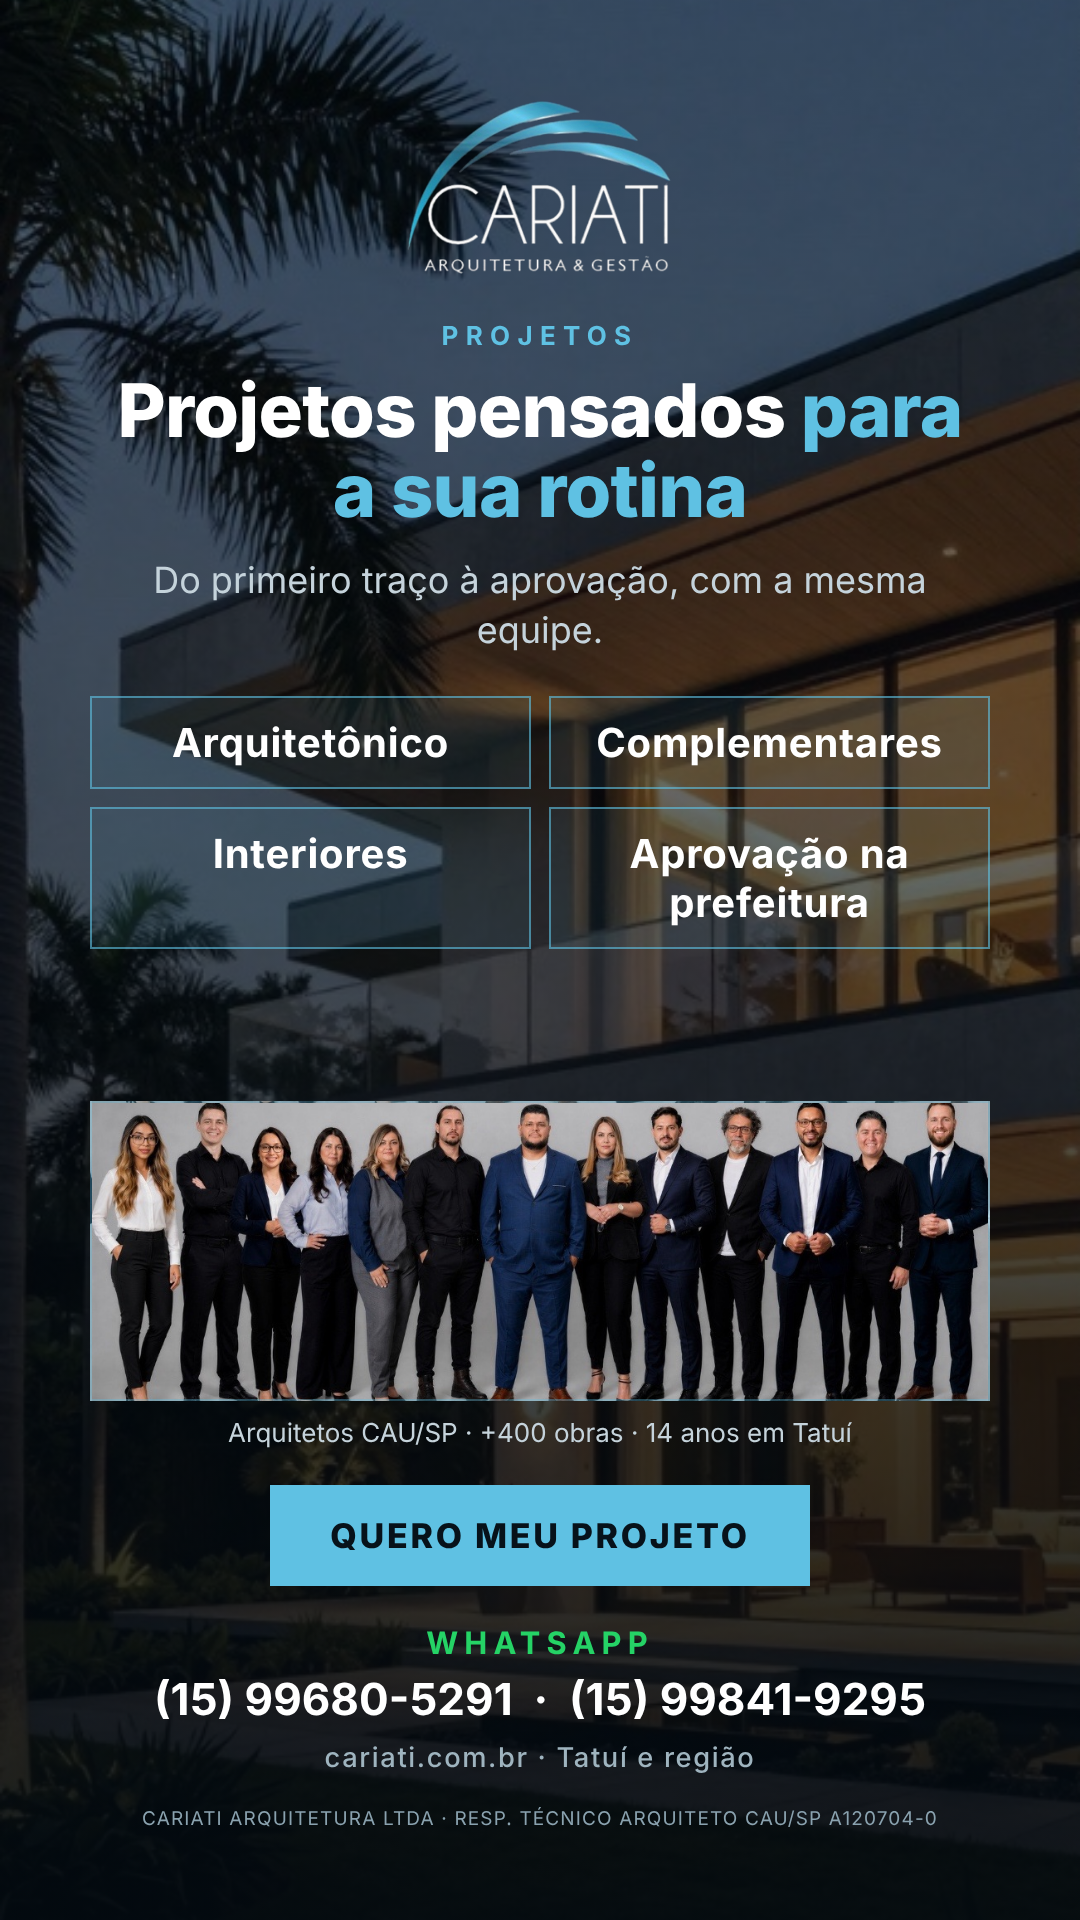
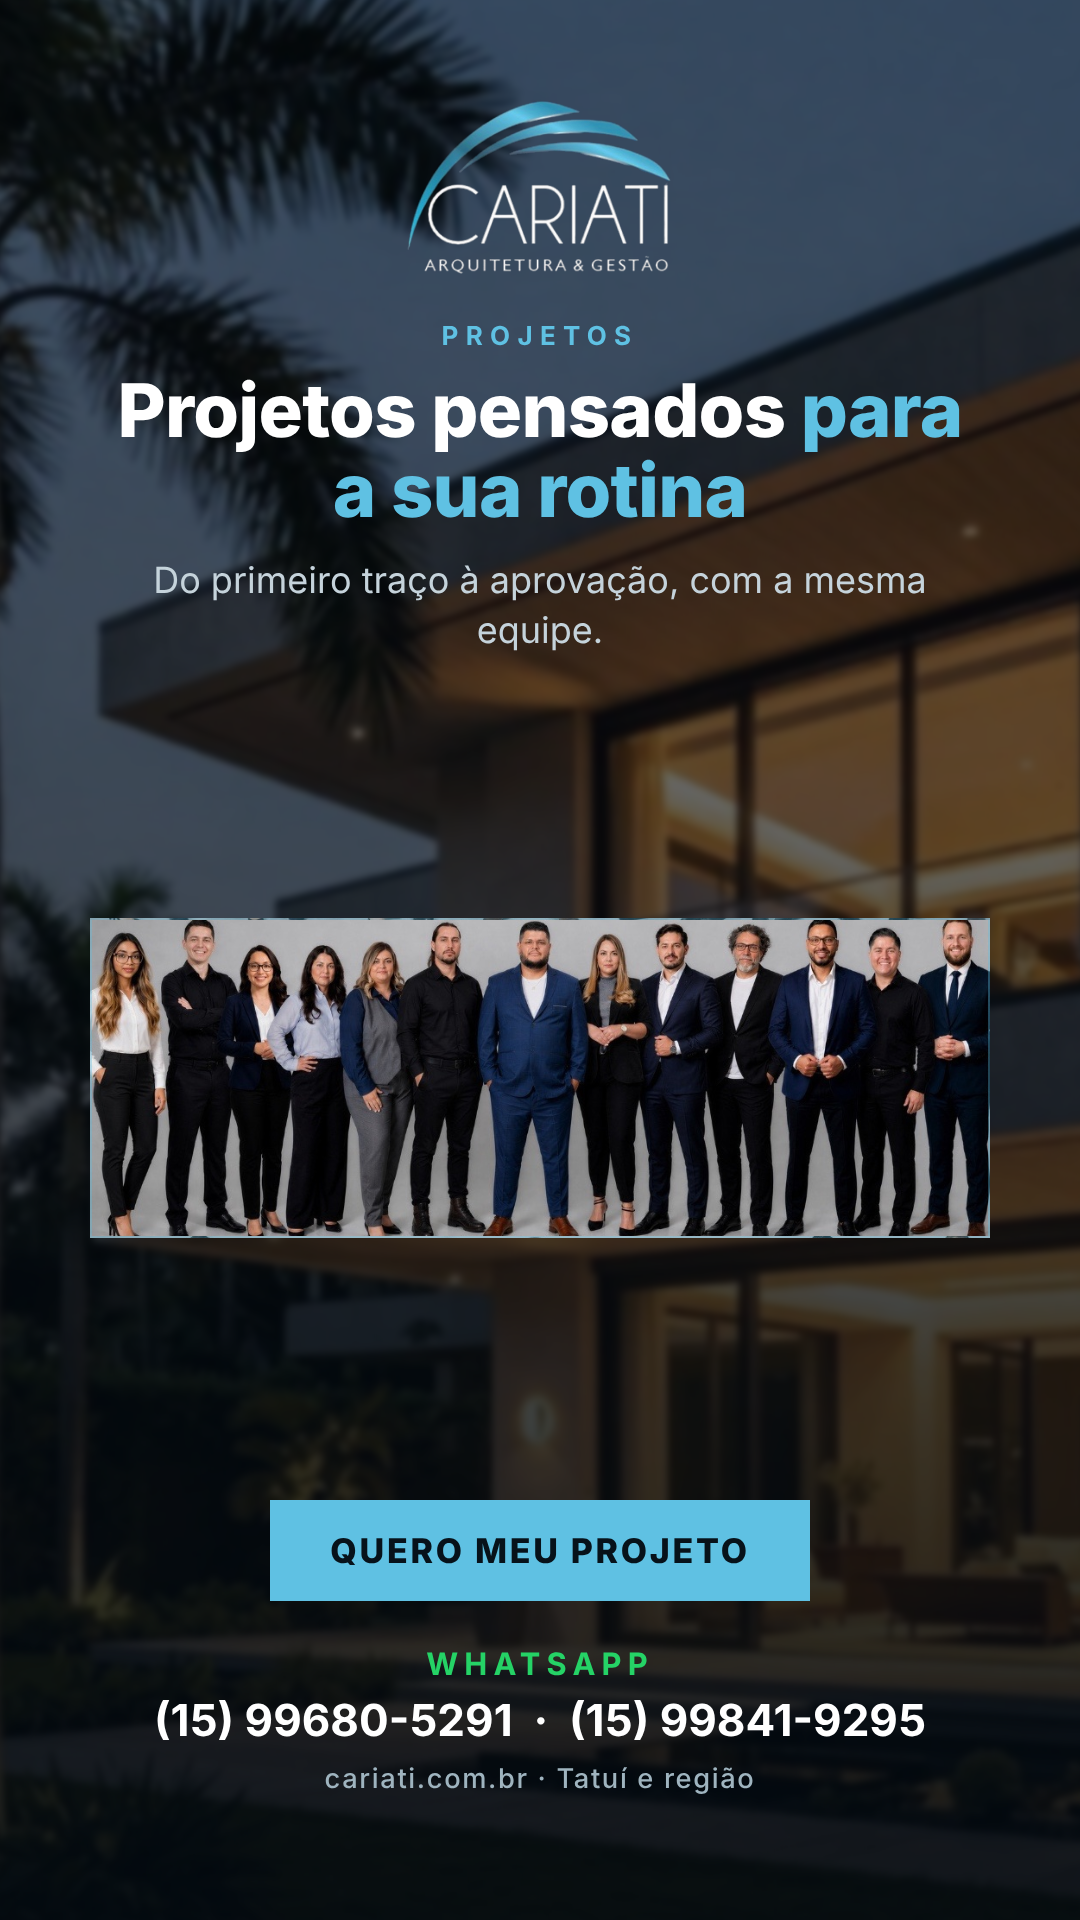
Flyer 08: simplify layout, blur background, remove chips and extra text
Claude-Session: https://claude.ai/code/session_012W4cPJrLBDcgKi33Cw4yCm

diff --git a/flyers_cariati/build.py b/flyers_cariati/build.py
@@ -33,7 +33,7 @@ h1 em{font-style:normal;color:#5fc1e3}
 .sn{font-weight:800;font-size:var(--sn);color:#5fc1e3;line-height:1}
 .sl{font-size:var(--sl);color:#c5d3db;margin-top:8px;letter-spacing:.03em}
 .gestao .card{padding:14px 20px}.gestao .card h3{margin:4px 0;font-size:28px}.gestao .card p{font-size:20px}
-.bg{position:absolute;inset:0;background-size:cover;background-position:center}
+.bg{position:absolute;inset:0;background-size:cover;background-position:center;filter:blur(3px);transform:scale(1.05)}
 .bg:after{content:'';position:absolute;inset:0;background:linear-gradient(180deg,rgba(3,10,16,.50),rgba(3,10,16,.62) 45%,rgba(3,10,16,.92))}
 .light .bg:after{background:linear-gradient(180deg,rgba(247,245,240,.68),rgba(247,245,240,.78) 45%,rgba(240,237,230,.96))}
 .grid3{display:grid;grid-template-columns:1fr 1fr 1fr;gap:var(--g3)}
@@ -133,11 +133,9 @@ def f7(vert):
 def f8(vert):
     bgimg="casa_noite_v.jpg" if vert else "casa_piscina.jpg"
     bg=f"<div class='bg' style=\"background-image:url('assets/{bgimg}')\"></div>"
-    chips_="".join(f"<span class=chip>{x}</span>" for x in ["Arquitetônico","Complementares","Interiores","Aprovação na prefeitura"])
-    ch=f'<div class="chips z">{chips_}</div>'
     if vert:
-        return bg+L+sp(40)+'<div class="eyebrow z">Projetos</div>'+sp(20)+'<h1 class=z>Projetos pensados <em>para a sua rotina</em></h1>'+sp(24)+'<p class="sub z">Do primeiro traço à aprovação, com a mesma equipe.</p>'+sp(40)+ch+flex()+photo("equipe.jpg",300,"center top")+sp(14)+'<p class="sub z" style="font-size:26px">Arquitetos CAU/SP · +400 obras · 14 anos em Tatuí</p>'+sp(34)+'<div class="cta z">Quero meu projeto</div>'+sp(34)+PH+sp(28)+FOOT
-    return bg+L+sp(20)+'<div class="eyebrow z">Projetos</div>'+sp(10)+'<h1 class=z style="font-size:50px;white-space:nowrap">Projetos pensados <em>para a sua rotina</em></h1>'+sp(16)+ch+flex()+photo("equipe.jpg",200,"center top")+sp(18)+'<div class="cta z">Quero meu projeto</div>'+sp(14)+PH+sp(10)+FOOT
+        return bg+L+sp(40)+'<div class="eyebrow z">Projetos</div>'+sp(20)+'<h1 class=z>Projetos pensados <em>para a sua rotina</em></h1>'+sp(24)+'<p class="sub z">Do primeiro traço à aprovação, com a mesma equipe.</p>'+flex()+photo("equipe.jpg",320,"center top")+flex()+'<div class="cta z">Quero meu projeto</div>'+sp(40)+PH+sp(30)
+    return bg+L+sp(26)+'<div class="eyebrow z">Projetos</div>'+sp(12)+'<h1 class=z style="font-size:52px;white-space:nowrap">Projetos pensados <em>para a sua rotina</em></h1>'+flex()+photo("equipe.jpg",250,"center top")+flex()+'<div class="cta z">Quero meu projeto</div>'+sp(18)+PH+sp(8)
 FL=[("01_tudo_em_um_so_lugar",f1),("02_400_obras",f2),("03_metodo_ppg",f3),("04_vamos_conversar",f4),("05_financiamento_caixa",f5),("06_equipe",f6),("07_gestao_de_obras",f7),("08_projetos_e_equipe",f8)]
 import json
 jobs=[]
